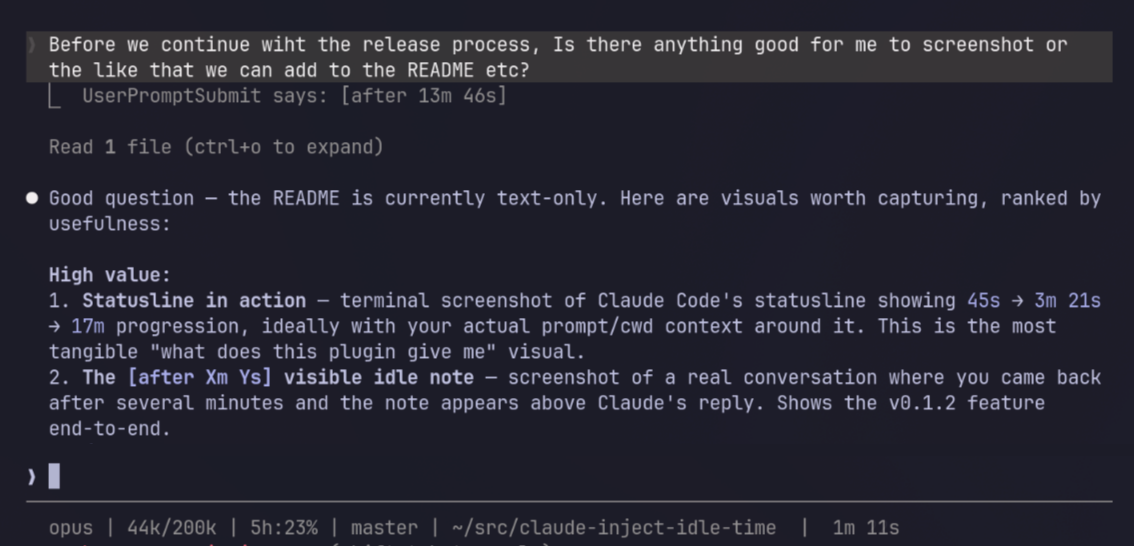
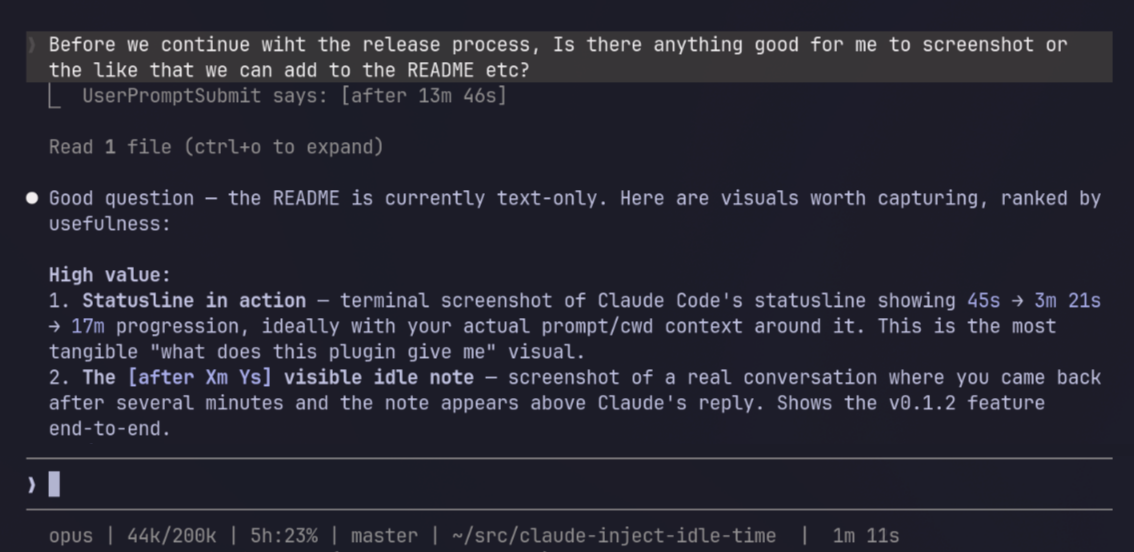
screenshot

diff --git a/scripts/user-prompt-submit.js b/scripts/user-prompt-submit.js
@@ -29,7 +29,7 @@ async function main() {
     throw new Error('session_id is required');
   }
 
-  const userMessageUtc = getNowIso();
+  const userMessageTime = getNowIso();
   const session = await loadSessionState({ dataDir, sessionId });
 
   await saveSessionState({
@@ -37,15 +37,15 @@ async function main() {
     sessionId,
     state: {
       ...session,
-      lastUserPromptAt: userMessageUtc,
+      lastUserPromptAt: userMessageTime,
       lastStopAt: null
     }
   });
 
-  const idleSinceLastStopMs = diffMs(userMessageUtc, session.lastStopAt);
+  const idleSinceLastStopMs = diffMs(userMessageTime, session.lastStopAt);
   const additionalContext = formatTimingBlock({
-    userMessageUtc,
-    idleSinceLastAssistantMs: diffMs(userMessageUtc, session.lastAssistantMessageAt),
+    userMessageTime,
+    idleSinceLastAssistantMs: diffMs(userMessageTime, session.lastAssistantMessageAt),
     idleSinceLastStopMs,
     lastTurnExecMs: session.lastTurnExecMs
   });